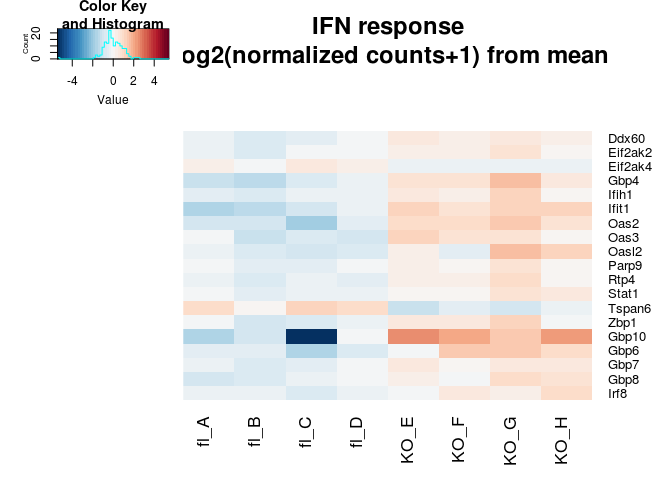
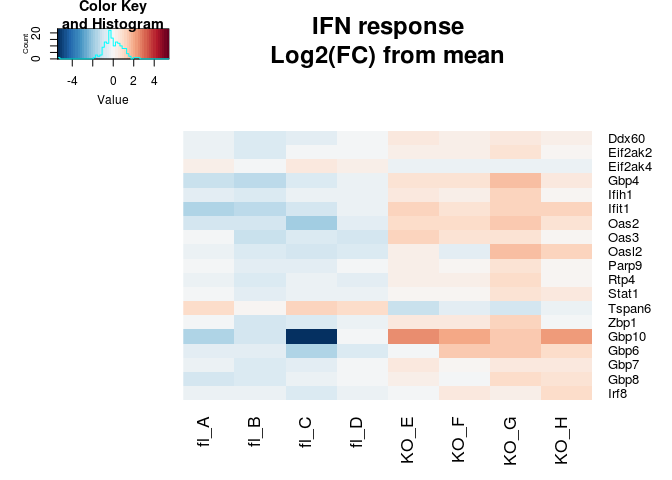
newstuff

Changed region(s): [[0.25, 0.0938, 0.9062, 0.1562]]

diff --git a/BoneCorrelations.md b/BoneCorrelations.md
@@ -1,0 +1,293 @@
+BoneCorrelations
+================
+Matthew Schmitz
+March 15, 2018
+
+So to get at the question of what is changing, perhaps we can use the variability of the FACS efficiency in the Ambrosi data, and the inter-individual animal variation to our advantage. I'll try to do this by looking for genes which covary across the samples, expecting to find sets related to cell type which are higher in their different sorted populations.
+
+Load all the processed data from BoneNotebook.Rmd's cache
+
+``` r
+load("~/code/IngrahamLab/BoneNotebook_cache/markdown_github/everything.RData")
+```
+
+    ## 
+
+Apply WGCNA:
+
+``` r
+library(WGCNA)
+
+#softThresh <- WGCNA::pickSoftThreshold(t(log(ambrosiMatNorm+1,2)))
+#hardThresh <- pickHardThreshold(t(log(ambrosiMatNorm+1,2)))
+#AmbrosiBlocks <- blockwiseModules(t(log(ambrosiMatNorm+1,2)),maxBlockSize = 2000,power = 10)
+```
+
+``` r
+#softThresh <- WGCNA::pickSoftThreshold(t(log(boneMatNorm+1,2)))
+#hardThresh <- pickHardThreshold(t(log(boneMatNorm+1,2)))
+#IngrahamBlocks <- blockwiseModules(t(log(boneMatNorm+1,2)),maxBlockSize = 2000,power = 8)
+```
+
+``` r
+#save.image(file = "~/code/IngrahamLab/BoneCorrelations_cache/wgcnas.RData")
+load(file = "~/code/IngrahamLab/BoneCorrelations_cache/wgcnas.RData")
+
+
+#lapply(IngrahamBlocks,function(x) x$dendrograms)
+
+print(str(IngrahamBlocks))
+```
+
+    ## List of 10
+    ##  $ colors        : chr [1:32611] "darkgreen" "purple2" "lightcoral" "darkolivegreen" ...
+    ##  $ unmergedColors: chr [1:32611] "lavenderblush3" "red2" "mediumorchid1" "maroon3" ...
+    ##  $ MEs           :'data.frame':  8 obs. of  209 variables:
+    ##   ..$ MEred                 : num [1:8] 0.934 -0.119 -0.115 -0.12 -0.118 ...
+    ##   ..$ MEburlywood           : num [1:8] 0.575 0.34 -0.215 0.191 0.131 ...
+    ##   ..$ MEtan3                : num [1:8] 0.4075 0.3784 -0.0573 0.2104 0.269 ...
+    ##   ..$ MElightskyblue2       : num [1:8] 0.459 0.506 -0.298 0.395 -0.282 ...
+    ##   ..$ MEtomato              : num [1:8] 0.638 0.584 -0.201 -0.218 -0.205 ...
+    ##   ..$ MEdarksalmon          : num [1:8] 0.4196 -0.3642 0.2534 0.0438 0.0516 ...
+    ##   ..$ MEslateblue2          : num [1:8] 0.395 -0.566 0.351 -0.101 0.313 ...
+    ##   ..$ MEcornsilk            : num [1:8] 0.4858 -0.3133 0.0701 0.2223 -0.4553 ...
+    ##   ..$ MEthistle3            : num [1:8] 0.432 -0.266 -0.323 0.242 -0.118 ...
+    ##   ..$ MElightblue3          : num [1:8] 0.41 0.234 -0.41 0.28 -0.421 ...
+    ##   ..$ MElinen               : num [1:8] 0.13734 0.13003 -0.16024 0.36999 -0.00614 ...
+    ##   ..$ MEslateblue           : num [1:8] 0.3534 -0.0325 -0.0664 0.5947 -0.3333 ...
+    ##   ..$ MEaliceblue           : num [1:8] 0.193 0.299 -0.37 -0.27 -0.408 ...
+    ##   ..$ MEpowderblue          : num [1:8] 0.2951 -0.0894 -0.0462 -0.1973 -0.6257 ...
+    ##   ..$ MEdarkorange          : num [1:8] 0.2379 -0.5106 -0.2455 0.0806 -0.3189 ...
+    ##   ..$ MEsaddlebrown         : num [1:8] 0.1417 -0.1485 -0.3101 -0.0106 -0.3889 ...
+    ##   ..$ MElightblue2          : num [1:8] -0.0924 0.0331 -0.4149 -0.1535 0.0325 ...
+    ##   ..$ MEnavajowhite         : num [1:8] 0.4462 -0.0126 -0.5118 -0.128 -0.0552 ...
+    ##   ..$ MEmediumpurple4       : num [1:8] -0.533 0.415 -0.226 -0.288 -0.296 ...
+    ##   ..$ MEpalevioletred1      : num [1:8] -0.317 0.442 -0.165 -0.193 -0.349 ...
+    ##   ..$ MEdarkmagenta         : num [1:8] 0.141 -0.11 -0.334 -0.512 -0.354 ...
+    ##   ..$ MElavenderblush2      : num [1:8] -0.0441 -0.0818 -0.0661 -0.2155 -0.6194 ...
+    ##   ..$ MEtan                 : num [1:8] -0.267 -0.286 -0.27 -0.194 -0.293 ...
+    ##   ..$ MEyellow3             : num [1:8] -0.198 -0.228 0.51 -0.166 -0.226 ...
+    ##   ..$ MEnavajowhite4        : num [1:8] -0.359 -0.24 0.54 -0.273 -0.321 ...
+    ##   ..$ MEpink3               : num [1:8] -0.515 0.314 0.447 -0.164 -0.447 ...
+    ##   ..$ MEpalevioletred3      : num [1:8] -0.571 -0.1766 0.0543 0.0559 -0.2712 ...
+    ##   ..$ MEdarkseagreen1       : num [1:8] -0.4334 0.199 -0.2095 0.1307 0.0231 ...
+    ##   ..$ MEgreenyellow         : num [1:8] -0.225 -0.249 -0.196 0.447 -0.254 ...
+    ##   ..$ MEdarkolivegreen2     : num [1:8] -0.6059 -0.2538 -0.2902 -0.0742 0.4258 ...
+    ##   ..$ MEdarkseagreen2       : num [1:8] -0.426 -0.0688 -0.5198 0.062 0.1126 ...
+    ##   ..$ MEdarkgrey            : num [1:8] -0.21 -0.522 -0.157 0.336 0.283 ...
+    ##   ..$ MElightblue1          : num [1:8] 0.0493 -0.5957 -0.0279 -0.2718 0.089 ...
+    ##   ..$ MEorangered1          : num [1:8] -0.39256 -0.515 -0.00109 -0.17654 0.20589 ...
+    ##   ..$ MEgreen3              : num [1:8] -0.441 0.256 -0.388 0.382 -0.238 ...
+    ##   ..$ MEpurple2             : num [1:8] -0.265 0.305 -0.598 0.384 -0.321 ...
+    ##   ..$ MEmagenta2            : num [1:8] -0.407 0.256 0.271 0.269 0.117 ...
+    ##   ..$ MEindianred1          : num [1:8] -0.4632 0.1423 0.0823 -0.0223 0.0525 ...
+    ##   ..$ MEindianred4          : num [1:8] -0.128 0.111 -0.205 0.238 0.102 ...
+    ##   ..$ MEdarkgreen           : num [1:8] -0.2042 0.5061 -0.0873 -0.258 -0.2472 ...
+    ##   ..$ MEsienna              : num [1:8] -0.281 0.322 -0.192 0.533 -0.351 ...
+    ##   ..$ MEsienna4             : num [1:8] -0.165 0.373 0.239 0.19 -0.357 ...
+    ##   ..$ MEtomato4             : num [1:8] -0.3986 -0.0155 0.4343 -0.5387 -0.1141 ...
+    ##   ..$ MElavender            : num [1:8] -0.2019 0.2256 -0.0178 -0.5576 0.3324 ...
+    ##   ..$ MEmoccasin            : num [1:8] -0.1814 0.0538 -0.0896 -0.6563 0.0112 ...
+    ##   ..$ MEblue3               : num [1:8] 0.2296 0.0115 -0.3022 -0.3053 -0.5074 ...
+    ##   ..$ MEyellow4             : num [1:8] -0.16 0.2 -0.339 -0.148 -0.319 ...
+    ##   ..$ MEpaleturquoise3      : num [1:8] 0.145 -0.22 -0.4356 -0.0239 0.2279 ...
+    ##   ..$ MEsienna3             : num [1:8] 0.111 -0.436 -0.145 -0.458 0.367 ...
+    ##   ..$ MEmistyrose3          : num [1:8] 0.4987 -0.0388 -0.551 -0.157 0.1343 ...
+    ##   ..$ MEantiquewhite4       : num [1:8] 0.156 -0.071 -0.116 -0.294 0.177 ...
+    ##   ..$ MEplum2               : num [1:8] 0.4471 -0.0981 -0.1582 -0.1882 -0.2678 ...
+    ##   ..$ MEmagenta             : num [1:8] -0.119 -0.114 -0.154 -0.113 -0.108 ...
+    ##   ..$ MEorangered3          : num [1:8] -0.285 -0.154 -0.141 -0.229 -0.156 ...
+    ##   ..$ MEcornsilk2           : num [1:8] -0.239 -0.29 -0.244 -0.248 0.41 ...
+    ##   ..$ MEdarkgoldenrod4      : num [1:8] -0.2583 -0.3272 -0.0999 -0.5414 0.0603 ...
+    ##   ..$ MEfirebrick4          : num [1:8] -0.287 -0.469 -0.317 0.404 0.383 ...
+    ##   ..$ MEorangered           : num [1:8] -0.275 -0.6399 -0.1386 0.5132 -0.0292 ...
+    ##   ..$ MEmediumpurple2       : num [1:8] -0.3392 -0.3424 0.0633 -0.0456 0.0277 ...
+    ##   ..$ MEcyan                : num [1:8] -0.21 -0.242 -0.264 0.525 -0.237 ...
+    ##   ..$ MEviolet              : num [1:8] -0.3204 -0.4826 -0.3385 0.3024 -0.0718 ...
+    ##   ..$ MEthistle2            : num [1:8] -0.245 -0.243 0.577 -0.15 -0.05 ...
+    ##   ..$ MEwheat3              : num [1:8] 0.0262 0.1538 0.3755 -0.1149 -0.0915 ...
+    ##   ..$ MEpink1               : num [1:8] 0.1104 -0.3527 0.4883 0.0137 0.3024 ...
+    ##   ..$ MEnavajowhite3        : num [1:8] 0.31722 -0.43161 0.0586 0.29564 0.00111 ...
+    ##   ..$ MEthistle             : num [1:8] 0.234 -0.153 0.436 0.418 -0.169 ...
+    ##   ..$ MEantiquewhite        : num [1:8] -0.463 -0.23 0.369 0.45 0.286 ...
+    ##   ..$ MEtan2                : num [1:8] -0.5444 -0.1055 -0.0329 0.2489 0.5091 ...
+    ##   ..$ MElightskyblue3       : num [1:8] -0.6145 0.029 0.1686 0.6082 -0.0717 ...
+    ##   ..$ MEbrown1              : num [1:8] -0.282 -0.316 0.393 0.515 -0.358 ...
+    ##   ..$ MEdarkgoldenrod3      : num [1:8] -0.179 -0.107 0.128 0.296 -0.163 ...
+    ##   ..$ MErosybrown4          : num [1:8] -0.412 0.122 0.458 0.273 -0.195 ...
+    ##   ..$ MEhoneydew1           : num [1:8] -0.3331 0.4639 -0.0405 0.2918 0.304 ...
+    ##   ..$ MEmagenta1            : num [1:8] -0.568 0.4 0.387 0.186 0.221 ...
+    ##   ..$ MEmediumorchid4       : num [1:8] -0.3677 0.0212 0.2575 -0.1896 0.6964 ...
+    ##   ..$ MEdeeppink            : num [1:8] -0.354 0.299 0.437 -0.332 0.304 ...
+    ##   ..$ MEmediumpurple        : num [1:8] -0.0867 0.3583 0.4609 -0.0438 0.2927 ...
+    ##   ..$ MEblue2               : num [1:8] 0.073 0.5969 0.0978 0.1258 -0.2532 ...
+    ##   ..$ MEcoral               : num [1:8] -0.181 0.607 -0.282 0.362 -0.192 ...
+    ##   ..$ MEmediumpurple1       : num [1:8] -0.173 0.775 -0.162 -0.239 -0.141 ...
+    ##   ..$ MEskyblue3            : num [1:8] -0.187 0.374 -0.153 -0.248 -0.209 ...
+    ##   ..$ MEblanchedalmond      : num [1:8] -0.5475 0.3298 0.0131 -0.0635 0.0575 ...
+    ##   ..$ MEdarkseagreen4       : num [1:8] -0.322 0.369 0.401 -0.312 -0.321 ...
+    ##   ..$ MEmediumorchid3       : num [1:8] 0.0602 0.2636 -0.0518 -0.3814 0.4795 ...
+    ##   ..$ MEindianred           : num [1:8] -0.2428 -0.1794 0.0558 0.428 0.4379 ...
+    ##   ..$ MEsalmon2             : num [1:8] -0.232 0.156 -0.349 0.202 0.338 ...
+    ##   ..$ MEpink2               : num [1:8] -0.325 0.328 -0.325 -0.446 0.398 ...
+    ##   ..$ MEdodgerblue4         : num [1:8] -0.2538 0.4641 -0.5283 0.043 0.0743 ...
+    ##   ..$ MEmagenta3            : num [1:8] -0.3202 0.0986 -0.4955 0.2249 0.3743 ...
+    ##   ..$ MEcoral1              : num [1:8] -0.212 -0.214 -0.206 -0.245 0.672 ...
+    ##   ..$ MEslateblue1          : num [1:8] 0.405 -0.207 -0.354 -0.222 0.569 ...
+    ##   ..$ MEfloralwhite         : num [1:8] -0.00336 -0.10846 -0.18805 0.50644 0.177 ...
+    ##   ..$ MElightpink           : num [1:8] 0.279 0.141 -0.553 0.256 0.194 ...
+    ##   ..$ MElightpink3          : num [1:8] 0.0104 0.1741 -0.1864 -0.013 0.3824 ...
+    ##   ..$ MEroyalblue3          : num [1:8] 0.339 0.513 -0.373 -0.529 0.146 ...
+    ##   ..$ MEindianred3          : num [1:8] 0.5639 -0.0169 -0.3446 -0.515 -0.1269 ...
+    ##   ..$ MEmediumorchid        : num [1:8] 0.282 0.207 -0.45 -0.421 0.183 ...
+    ##   ..$ MEroyalblue2          : num [1:8] -0.1555 0.0639 0.3542 -0.7193 -0.0947 ...
+    ##   ..$ MEwhitesmoke          : num [1:8] -0.1979 0.1346 0.2071 -0.7165 0.0497 ...
+    ##   .. [list output truncated]
+    ##  $ goodSamples   : logi [1:8] TRUE TRUE TRUE TRUE TRUE TRUE ...
+    ##  $ goodGenes     : logi [1:32611] TRUE TRUE TRUE TRUE TRUE TRUE ...
+    ##  $ dendrograms   :List of 14
+    ##   ..$ :List of 7
+    ##   .. ..$ merge      : int [1:1994, 1:2] -875 -840 -192 -743 -612 -150 -383 -1004 -1131 -1543 ...
+    ##   .. ..$ height     : num [1:1994] 0.448 0.45 0.451 0.453 0.454 ...
+    ##   .. ..$ order      : int [1:1995] 1239 138 685 6 838 388 177 889 863 1080 ...
+    ##   .. ..$ labels     : NULL
+    ##   .. ..$ method     : chr "average"
+    ##   .. ..$ call       : language fastcluster::hclust(d = as.dist(dissTom), method = "average")
+    ##   .. ..$ dist.method: NULL
+    ##   .. ..- attr(*, "class")= chr "hclust"
+    ##   ..$ :List of 7
+    ##   .. ..$ merge      : int [1:1963, 1:2] -99 -186 -210 -281 -292 -331 -333 -344 -398 -346 ...
+    ##   .. ..$ height     : num [1:1963] 0.389 0.395 0.397 0.398 0.4 ...
+    ##   .. ..$ order      : int [1:1964] 1440 1516 262 489 1415 435 1712 818 1225 1378 ...
+    ##   .. ..$ labels     : NULL
+    ##   .. ..$ method     : chr "average"
+    ##   .. ..$ call       : language fastcluster::hclust(d = as.dist(dissTom), method = "average")
+    ##   .. ..$ dist.method: NULL
+    ##   .. ..- attr(*, "class")= chr "hclust"
+    ##   ..$ :List of 7
+    ##   .. ..$ merge      : int [1:1959, 1:2] -285 -290 -298 -320 -327 -336 -338 -340 -347 -348 ...
+    ##   .. ..$ height     : num [1:1959] 0.157 0.157 0.157 0.157 0.157 ...
+    ##   .. ..$ order      : int [1:1960] 284 1720 399 1354 1651 416 1428 1848 1316 1561 ...
+    ##   .. ..$ labels     : NULL
+    ##   .. ..$ method     : chr "average"
+    ##   .. ..$ call       : language fastcluster::hclust(d = as.dist(dissTom), method = "average")
+    ##   .. ..$ dist.method: NULL
+    ##   .. ..- attr(*, "class")= chr "hclust"
+    ##   ..$ :List of 7
+    ##   .. ..$ merge      : int [1:1927, 1:2] -583 -689 -994 -838 -555 -69 -896 -658 -29 -466 ...
+    ##   .. ..$ height     : num [1:1927] 0.565 0.57 0.575 0.581 0.584 ...
+    ##   .. ..$ order      : int [1:1928] 138 608 627 1293 100 530 135 257 1744 1034 ...
+    ##   .. ..$ labels     : NULL
+    ##   .. ..$ method     : chr "average"
+    ##   .. ..$ call       : language fastcluster::hclust(d = as.dist(dissTom), method = "average")
+    ##   .. ..$ dist.method: NULL
+    ##   .. ..- attr(*, "class")= chr "hclust"
+    ##   ..$ :List of 7
+    ##   .. ..$ merge      : int [1:1872, 1:2] -8 -10 -11 -22 -24 -26 -66 -89 -91 -133 ...
+    ##   .. ..$ height     : num [1:1872] 0.318 0.331 0.331 0.331 0.331 ...
+    ##   .. ..$ order      : int [1:1873] 351 58 1858 467 833 264 1303 458 1775 81 ...
+    ##   .. ..$ labels     : NULL
+    ##   .. ..$ method     : chr "average"
+    ##   .. ..$ call       : language fastcluster::hclust(d = as.dist(dissTom), method = "average")
+    ##   .. ..$ dist.method: NULL
+    ##   .. ..- attr(*, "class")= chr "hclust"
+    ##   ..$ :List of 7
+    ##   .. ..$ merge      : int [1:1871, 1:2] -687 -1746 -570 -78 -217 -626 -668 -691 -578 -735 ...
+    ##   .. ..$ height     : num [1:1871] 0.39 0.42 0.43 0.434 0.437 ...
+    ##   .. ..$ order      : int [1:1872] 137 978 1102 1132 1342 1499 1634 1839 9 1161 ...
+    ##   .. ..$ labels     : NULL
+    ##   .. ..$ method     : chr "average"
+    ##   .. ..$ call       : language fastcluster::hclust(d = as.dist(dissTom), method = "average")
+    ##   .. ..$ dist.method: NULL
+    ##   .. ..- attr(*, "class")= chr "hclust"
+    ##   ..$ :List of 7
+    ##   .. ..$ merge      : int [1:1857, 1:2] -318 -14 -697 -299 -801 -1591 -108 -391 -1330 -498 ...
+    ##   .. ..$ height     : num [1:1857] 0.46 0.479 0.484 0.487 0.487 ...
+    ##   .. ..$ order      : int [1:1858] 153 263 921 1673 1026 1156 1531 1136 1713 1441 ...
+    ##   .. ..$ labels     : NULL
+    ##   .. ..$ method     : chr "average"
+    ##   .. ..$ call       : language fastcluster::hclust(d = as.dist(dissTom), method = "average")
+    ##   .. ..$ dist.method: NULL
+    ##   .. ..- attr(*, "class")= chr "hclust"
+    ##   ..$ :List of 7
+    ##   .. ..$ merge      : int [1:1847, 1:2] -2 -9 -14 -18 -29 -32 -33 -45 -63 -73 ...
+    ##   .. ..$ height     : num [1:1847] 0.208 0.209 0.209 0.215 0.218 ...
+    ##   .. ..$ order      : int [1:1848] 183 1512 1300 628 526 704 374 496 1621 208 ...
+    ##   .. ..$ labels     : NULL
+    ##   .. ..$ method     : chr "average"
+    ##   .. ..$ call       : language fastcluster::hclust(d = as.dist(dissTom), method = "average")
+    ##   .. ..$ dist.method: NULL
+    ##   .. ..- attr(*, "class")= chr "hclust"
+    ##   ..$ :List of 7
+    ##   .. ..$ merge      : int [1:1760, 1:2] -425 -248 -613 -575 -281 -374 -693 -327 -438 -12 ...
+    ##   .. ..$ height     : num [1:1760] 0.496 0.503 0.507 0.509 0.51 ...
+    ##   .. ..$ order      : int [1:1761] 17 639 558 1272 1513 323 1337 462 1415 39 ...
+    ##   .. ..$ labels     : NULL
+    ##   .. ..$ method     : chr "average"
+    ##   .. ..$ call       : language fastcluster::hclust(d = as.dist(dissTom), method = "average")
+    ##   .. ..$ dist.method: NULL
+    ##   .. ..- attr(*, "class")= chr "hclust"
+    ##   ..$ :List of 7
+    ##   .. ..$ merge      : int [1:1696, 1:2] -3 -4 -6 -16 -18 -23 -31 -41 -48 -69 ...
+    ##   .. ..$ height     : num [1:1696] 0.158 0.175 0.179 0.186 0.188 ...
+    ##   .. ..$ order      : int [1:1697] 970 1385 1669 537 9 699 1370 234 214 85 ...
+    ##   .. ..$ labels     : NULL
+    ##   .. ..$ method     : chr "average"
+    ##   .. ..$ call       : language fastcluster::hclust(d = as.dist(dissTom), method = "average")
+    ##   .. ..$ dist.method: NULL
+    ##   .. ..- attr(*, "class")= chr "hclust"
+    ##   ..$ :List of 7
+    ##   .. ..$ merge      : int [1:1560, 1:2] -379 -938 -539 -421 2 -521 -234 -1182 -293 -276 ...
+    ##   .. ..$ height     : num [1:1560] 0.403 0.428 0.45 0.459 0.462 ...
+    ##   .. ..$ order      : int [1:1561] 611 65 247 427 451 571 419 583 705 632 ...
+    ##   .. ..$ labels     : NULL
+    ##   .. ..$ method     : chr "average"
+    ##   .. ..$ call       : language fastcluster::hclust(d = as.dist(dissTom), method = "average")
+    ##   .. ..$ dist.method: NULL
+    ##   .. ..- attr(*, "class")= chr "hclust"
+    ##   ..$ :List of 7
+    ##   .. ..$ merge      : int [1:1335, 1:2] -14 -19 -22 -27 -29 -42 -44 -61 -62 -71 ...
+    ##   .. ..$ height     : num [1:1335] 0.152 0.16 0.163 0.164 0.165 ...
+    ##   .. ..$ order      : int [1:1336] 35 143 394 1319 1158 1162 733 314 844 661 ...
+    ##   .. ..$ labels     : NULL
+    ##   .. ..$ method     : chr "average"
+    ##   .. ..$ call       : language fastcluster::hclust(d = as.dist(dissTom), method = "average")
+    ##   .. ..$ dist.method: NULL
+    ##   .. ..- attr(*, "class")= chr "hclust"
+    ##   ..$ :List of 7
+    ##   .. ..$ merge      : int [1:1241, 1:2] -4 -5 -6 -9 -19 -20 -21 -23 -29 -36 ...
+    ##   .. ..$ height     : num [1:1241] 0.129 0.129 0.129 0.129 0.129 ...
+    ##   .. ..$ order      : int [1:1242] 898 1079 40 120 300 213 974 221 882 67 ...
+    ##   .. ..$ labels     : NULL
+    ##   .. ..$ method     : chr "average"
+    ##   .. ..$ call       : language fastcluster::hclust(d = as.dist(dissTom), method = "average")
+    ##   .. ..$ dist.method: NULL
+    ##   .. ..- attr(*, "class")= chr "hclust"
+    ##   ..$ :List of 7
+    ##   .. ..$ merge      : int [1:1051, 1:2] -3 -9 -11 -15 -24 -26 -49 -67 -73 -78 ...
+    ##   .. ..$ height     : num [1:1051] 0.191 0.194 0.199 0.202 0.204 ...
+    ##   .. ..$ order      : int [1:1052] 999 871 139 928 693 894 528 572 596 688 ...
+    ##   .. ..$ labels     : NULL
+    ##   .. ..$ method     : chr "average"
+    ##   .. ..$ call       : language fastcluster::hclust(d = as.dist(dissTom), method = "average")
+    ##   .. ..$ dist.method: NULL
+    ##   .. ..- attr(*, "class")= chr "hclust"
+    ##  $ TOMFiles      : NULL
+    ##  $ blockGenes    :List of 14
+    ##   ..$ : int [1:1995] 11 12 116 133 151 162 170 172 183 186 ...
+    ##   ..$ : int [1:1964] 15 34 36 84 94 100 125 126 175 181 ...
+    ##   ..$ : int [1:1960] 1 14 19 21 44 98 117 132 145 146 ...
+    ##   ..$ : int [1:1928] 10 66 83 88 95 176 200 255 302 315 ...
+    ##   ..$ : int [1:1873] 5 25 26 27 29 30 37 41 51 55 ...
+    ##   ..$ : int [1:1872] 114 115 119 120 131 136 147 210 231 239 ...
+    ##   ..$ : int [1:1858] 8 32 33 38 39 62 65 107 141 180 ...
+    ##   ..$ : int [1:1848] 3 9 13 28 48 87 106 159 203 243 ...
+    ##   ..$ : int [1:1761] 18 20 53 109 182 218 224 225 245 249 ...
+    ##   ..$ : int [1:1697] 6 24 46 57 58 59 103 124 143 161 ...
+    ##   ..$ : int [1:1561] 35 63 139 155 177 206 234 236 240 246 ...
+    ##   ..$ : int [1:1336] 2 64 68 70 74 77 121 140 169 262 ...
+    ##   ..$ : int [1:1242] 7 31 42 49 50 110 130 165 174 205 ...
+    ##   ..$ : int [1:1052] 4 22 47 99 144 171 178 209 340 355 ...
+    ##  $ blocks        : num [1:32611] 3 12 8 14 5 10 13 7 8 4 ...
+    ##  $ MEsOK         : logi TRUE
+    ## NULL

diff --git a/BoneNotebook.md b/BoneNotebook.md
@@ -1079,7 +1079,7 @@ ifnGenes <- Reduce(union,strsplit(dfGO[which(grepl(pattern = "defense|interferon
 repairGenes <- Reduce(union,strsplit(dfGO[which(grepl(pattern = "pyrimidine|repair",dfGO[,2])),"geneID"],"/"))
 bmpGenes <- Reduce(union,strsplit(dfGO[which(grepl(pattern = "ossi|osteoblast|collagen",dfGO[,2])),"geneID"],"/"))
 
-std.heatmap(log(boneMatNorm[ifnGenes,]+1,2)-rowMeans(log(boneMatNorm[ifnGenes,]+1,2)),main="IFN response\nLog2(normalized counts+1) from mean")
+std.heatmap(log(boneMatNorm[ifnGenes,]+1,2)-rowMeans(log(boneMatNorm[ifnGenes,]+1,2)),main="IFN response\nLog2(FC) from mean")
 ```
 
 ![](BoneNotebook_files/figure-markdown_github/differentialExpression-8.png)
